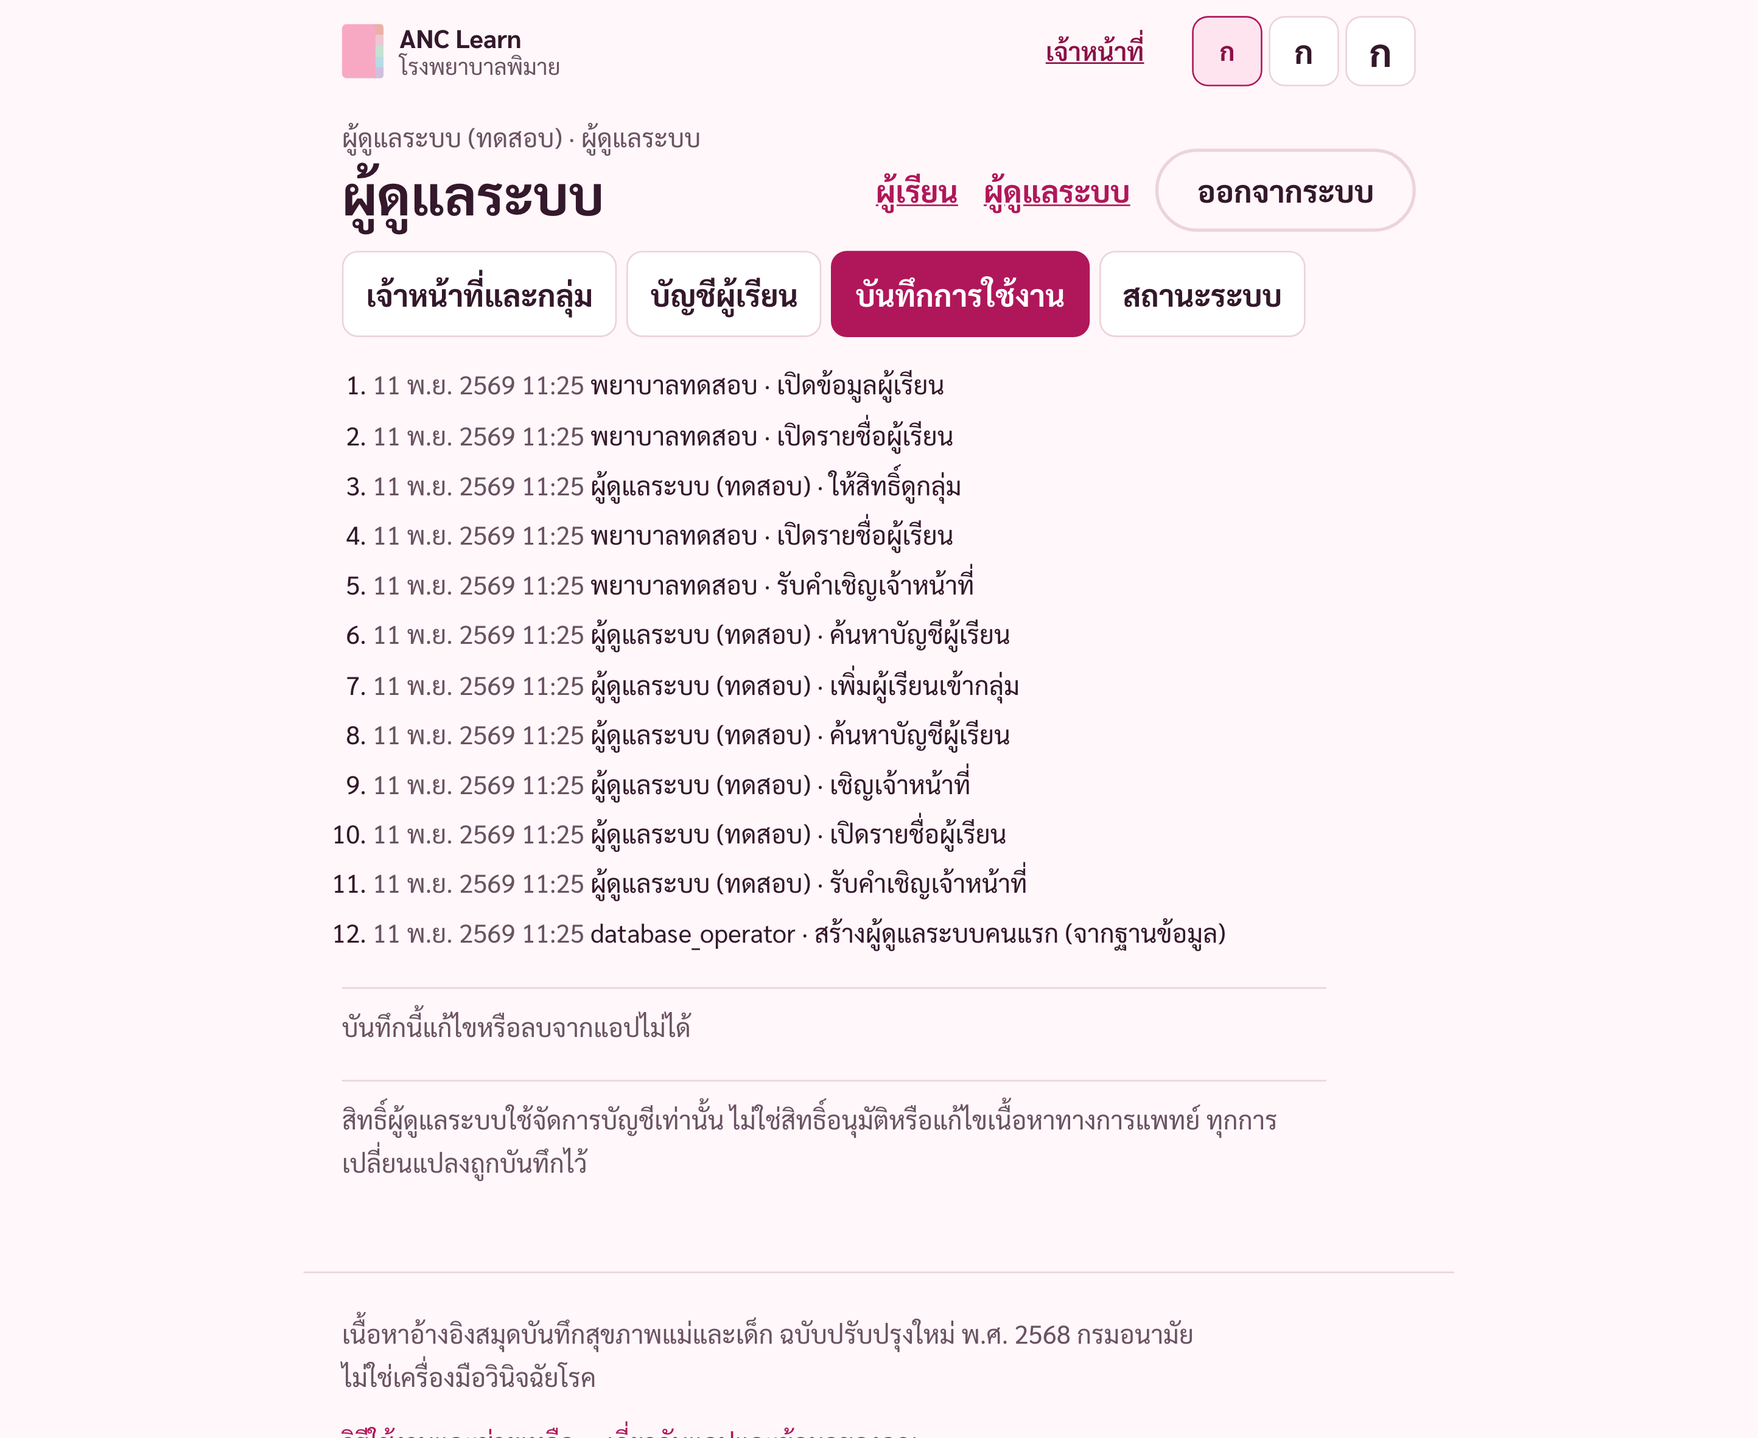
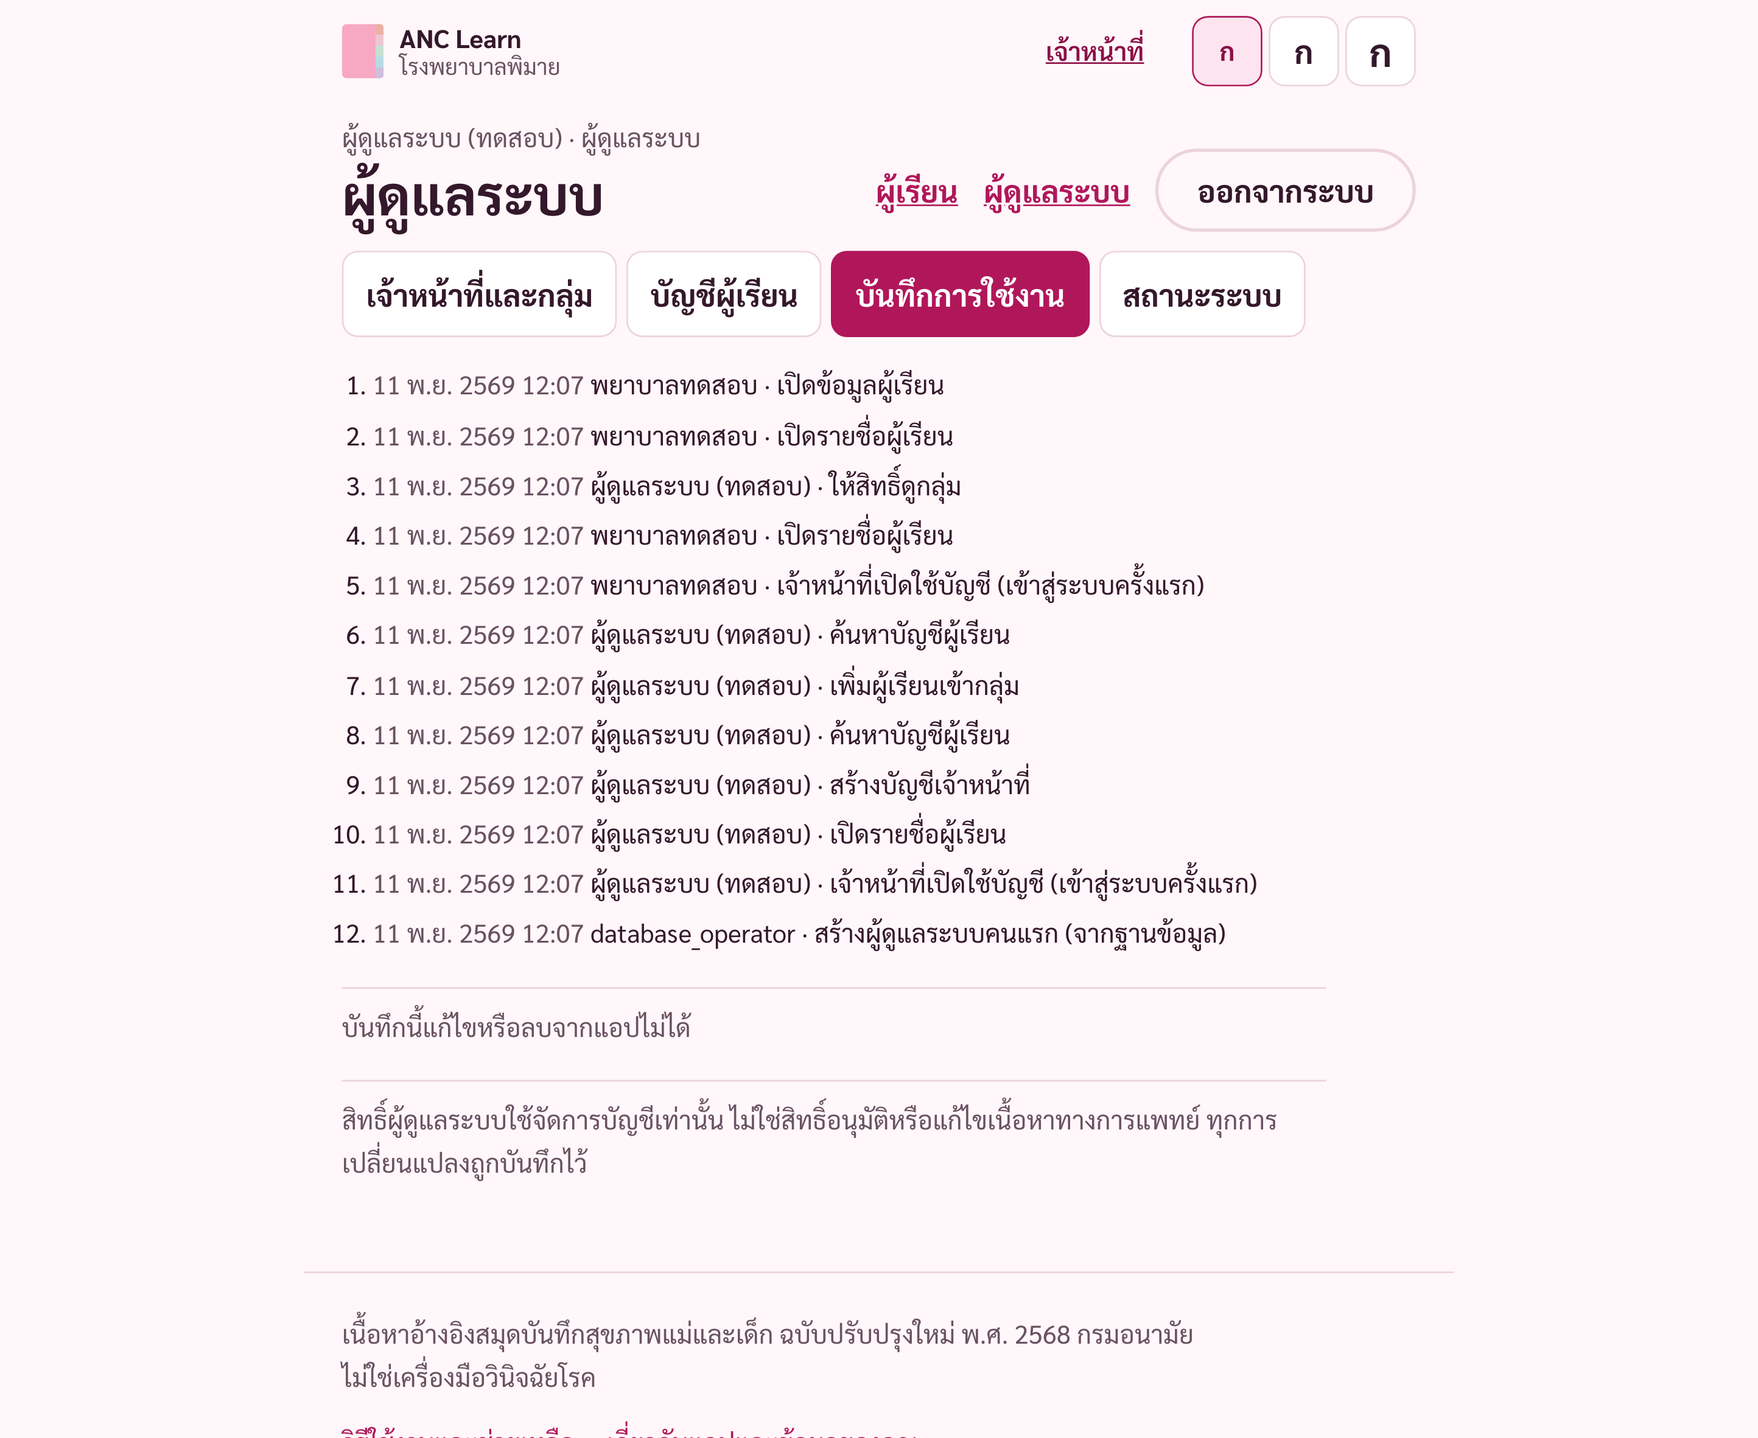
Admin: "create staff account" instead of "invite"
Admins create staff and admin accounts with a work email; the person
activates it within 7 days by signing in on the staff page and setting up
an authenticator app. Pending accounts are listed as waiting for first
sign-in. No passwords are set for anyone. Same server rules as before.

Changed region(s): [[0.4363, 0.4016, 0.6856, 0.4325], [0.4675, 0.587, 0.6856, 0.6179], [0.4675, 0.5252, 0.5921, 0.5561]]

diff --git a/app/src/pages/staff/AdminPage.tsx b/app/src/pages/staff/AdminPage.tsx
@@ -24,9 +24,9 @@ const actionLabel: Record<string, string> = {
   "staff.list_learners": "เปิดรายชื่อผู้เรียน",
   "staff.view_learner": "เปิดข้อมูลผู้เรียน",
   "staff.view_learner_denied": "พยายามเปิดผู้เรียนนอกกลุ่ม (ถูกปฏิเสธ)",
-  "staff.invitation_accepted": "รับคำเชิญเจ้าหน้าที่",
-  "admin.invite_staff": "เชิญเจ้าหน้าที่",
-  "admin.revoke_invitation": "ยกเลิกคำเชิญ",
+  "staff.invitation_accepted": "เจ้าหน้าที่เปิดใช้บัญชี (เข้าสู่ระบบครั้งแรก)",
+  "admin.invite_staff": "สร้างบัญชีเจ้าหน้าที่",
+  "admin.revoke_invitation": "ยกเลิกบัญชีที่ยังไม่เปิดใช้",
   "admin.set_staff_role": "เปลี่ยนบทบาท",
   "admin.set_staff_status": "เปิด/ปิดบัญชีเจ้าหน้าที่",
   "admin.create_cohort": "สร้างกลุ่ม",
@@ -44,7 +44,7 @@ const problemText = (e: unknown) => {
   if (m === "last_active_admin") return "ทำไม่ได้: ต้องมีผู้ดูแลระบบที่ใช้งานอยู่อย่างน้อย 1 คน";
   if (m === "email_already_has_account") return "อีเมลนี้มีบัญชีอยู่แล้ว (เช่น บัญชีผู้เรียน) ใช้อีเมลงานอีกอีเมลหนึ่ง";
   if (m === "bad_email") return "อีเมลไม่ถูกต้อง";
-  if (/duplicate key/.test(m)) return "มีคำเชิญหรือชื่อนี้อยู่แล้ว";
+  if (/duplicate key/.test(m)) return "มีบัญชีที่รอเปิดใช้สำหรับอีเมลนี้ หรือชื่อนี้อยู่แล้ว";
   return "ทำรายการไม่สำเร็จ ลองอีกครั้ง";
 };
 
@@ -109,12 +109,16 @@ function StaffAdmin() {
   return (
     <section aria-label="เจ้าหน้าที่และกลุ่ม">
       {msg && <p role="status" className="notice">{msg}</p>}
-      <h2>เชิญเจ้าหน้าที่</h2>
+      <h2>สร้างบัญชีเจ้าหน้าที่</h2>
+      <p className="auth__hint">
+        สร้างบัญชีให้เจ้าหน้าที่หรือผู้ดูแลระบบคนใหม่ด้วยอีเมลงาน เจ้าหน้าที่เปิดใช้บัญชีเองภายใน 7 วัน โดยเข้า “เข้าสู่ระบบเจ้าหน้าที่”
+        ด้วยอีเมลนั้น แล้วตั้งค่าแอปยืนยันตัวตน ไม่มีการตั้งรหัสผ่านให้ใคร
+      </p>
       <form
         className="admin__form"
         onSubmit={(e) => {
           e.preventDefault();
-          void act("admin_invite_staff", { p_email: form.email, p_display_name: form.name, p_role: form.role }, "ส่งคำเชิญแล้ว ให้เจ้าหน้าที่เข้า “เข้าสู่ระบบเจ้าหน้าที่” ด้วยอีเมลนี้ภายใน 7 วัน").then(() =>
+          void act("admin_invite_staff", { p_email: form.email, p_display_name: form.name, p_role: form.role }, "สร้างบัญชีแล้ว แจ้งเจ้าหน้าที่ให้เข้า “เข้าสู่ระบบเจ้าหน้าที่” ด้วยอีเมลนี้ภายใน 7 วัน เพื่อเปิดใช้บัญชี").then(() =>
             setForm({ email: "", name: "", role: "staff" }),
           );
         }}
@@ -128,18 +132,18 @@ function StaffAdmin() {
           <option value="staff">เจ้าหน้าที่ (ดูผู้เรียนในกลุ่มที่ได้รับมอบหมาย)</option>
           <option value="admin">ผู้ดูแลระบบ (จัดการบัญชีและสิทธิ์)</option>
         </select>
-        <button type="submit" className="btn btn--primary">เชิญ</button>
+        <button type="submit" className="btn btn--primary">สร้างบัญชี</button>
       </form>
 
       {data && data.invitations.length > 0 && (
         <>
-          <h3>คำเชิญที่ยังไม่ได้ใช้</h3>
+          <h3>บัญชีที่รอเปิดใช้ (เจ้าหน้าที่ยังไม่เคยเข้าสู่ระบบ)</h3>
           <ul className="admin__list">
             {data.invitations.map((i) => (
               <li key={i.id}>
                 {i.display_name} · {i.email} · {i.role === "admin" ? "ผู้ดูแลระบบ" : "เจ้าหน้าที่"} · หมดอายุ {formatBangkok(i.expires_at)}{" "}
-                <button type="button" className="btn btn--quiet" onClick={() => void act("admin_revoke_invitation", { p_invitation: i.id }, "ยกเลิกคำเชิญแล้ว")}>
-                  ยกเลิกคำเชิญ
+                <button type="button" className="btn btn--quiet" onClick={() => void act("admin_revoke_invitation", { p_invitation: i.id }, "ยกเลิกบัญชีแล้ว")}>
+                  ยกเลิกบัญชีนี้
                 </button>
               </li>
             ))}

diff --git a/app/src/pages/staff/StaffGate.tsx b/app/src/pages/staff/StaffGate.tsx
@@ -31,7 +31,7 @@ export function StaffGate({ admin = false, children }: { admin?: boolean; childr
           ‹ หน้าแรก
         </Link>
         <h1>เข้าสู่ระบบเจ้าหน้าที่</h1>
-        <p>สำหรับเจ้าหน้าที่โรงพยาบาลที่ได้รับคำเชิญจากผู้ดูแลระบบเท่านั้น ใช้อีเมลที่ได้รับคำเชิญ</p>
+        <p>สำหรับเจ้าหน้าที่ที่ผู้ดูแลระบบสร้างบัญชีให้แล้วเท่านั้น ใช้อีเมลงานที่ผู้ดูแลระบบใช้สร้างบัญชี</p>
         <OtpSignIn methods={["email"]} meta={{ intent: "staff" }} audience="staff" onSignedIn={() => undefined} />
       </main>
     );
@@ -39,7 +39,7 @@ export function StaffGate({ admin = false, children }: { admin?: boolean; childr
     return (
       <main className="page staff">
         <h1>บัญชีนี้ไม่ใช่บัญชีเจ้าหน้าที่</h1>
-        <p>คุณเข้าสู่ระบบด้วยบัญชีผู้เรียน ถ้าเป็นเจ้าหน้าที่ ออกจากระบบแล้วเข้าด้วยอีเมลที่ได้รับคำเชิญ</p>
+        <p>คุณเข้าสู่ระบบด้วยบัญชีผู้เรียน ถ้าเป็นเจ้าหน้าที่ ออกจากระบบแล้วเข้าด้วยอีเมลงานที่ผู้ดูแลระบบใช้สร้างบัญชีเจ้าหน้าที่</p>
         <button type="button" className="btn btn--quiet" onClick={() => void signOut({ discardPending: false }).catch(() => signOut({ discardPending: true }))}>
           ออกจากระบบ
         </button>

diff --git a/app/src/account/auth.ts b/app/src/account/auth.ts
@@ -16,7 +16,7 @@ export function explain(err: unknown): AuthProblem {
   if (/provider_disabled|Unsupported phone provider|signups not allowed/i.test(msg) || /provider_disabled/.test(e?.code ?? ""))
     return { message: "ตอนนี้ยังเข้าสู่ระบบด้วยวิธีนี้ไม่ได้ ลองอีกวิธีหนึ่ง หรือติดต่อเจ้าหน้าที่" };
   if (/Database error saving new user|no_staff_invitation/i.test(msg))
-    return { message: "ไม่พบคำเชิญเจ้าหน้าที่สำหรับอีเมลนี้ หรือคำเชิญหมดอายุแล้ว ติดต่อผู้ดูแลระบบ" };
+    return { message: "อีเมลนี้ยังไม่มีบัญชีเจ้าหน้าที่ หรือเกิน 7 วันแล้ว ให้ผู้ดูแลระบบสร้างบัญชีให้ใหม่" };
   if (/sending|sms|send/i.test(msg) && (e?.status ?? 0) >= 500)
     return { message: "ส่งรหัสไม่สำเร็จ ระบบส่งข้อความขัดข้อง ลองอีกครั้งภายหลัง หรือใช้อีกวิธีหนึ่ง" };
   if (/fetch|network|Load failed/i.test(msg))

diff --git a/app/tests-accounts/demo.spec.ts b/app/tests-accounts/demo.spec.ts
@@ -161,8 +161,8 @@ test("staff: an authorised nurse sees the learner; others cannot", async ({ brow
   await admin.goto("/admin");
   await admin.getByLabel("อีเมลงาน").fill(NURSE);
   await admin.getByLabel("ชื่อที่แสดง").fill("พยาบาลทดสอบ");
-  await admin.getByRole("button", { name: "เชิญ", exact: true }).click();
-  await expect(admin.getByText("ส่งคำเชิญแล้ว")).toBeVisible();
+  await admin.getByRole("button", { name: "สร้างบัญชี", exact: true }).click();
+  await expect(admin.getByText("สร้างบัญชีแล้ว")).toBeVisible();
   await admin.getByRole("tab", { name: "บัญชีผู้เรียน" }).click();
   const row = admin.locator(".admin__staff").filter({ hasText: "สมใจ (ทดสอบ)" });
   await row.getByLabel("คลินิกฝากครรภ์ (ข้อมูลทดสอบ)").click();

diff --git a/docs/ACCOUNTS-ADMIN-GUIDE.md b/docs/ACCOUNTS-ADMIN-GUIDE.md
@@ -5,11 +5,13 @@
 
 เข้าสู่ระบบเหมือนเจ้าหน้าที่ (docs/ACCOUNTS-STAFF-GUIDE.md ข้อ 1) แล้วแตะ **ผู้ดูแลระบบ** ด้านบน
 
-## 1. เชิญเจ้าหน้าที่
-แท็บ **เจ้าหน้าที่และกลุ่ม** → เชิญเจ้าหน้าที่: อีเมลงาน, ชื่อที่แสดง, บทบาท → **เชิญ**
-- บอกเจ้าหน้าที่ให้เข้า “เข้าสู่ระบบเจ้าหน้าที่” ด้วยอีเมลนั้นภายใน 7 วัน (ตอนนี้ระบบไม่ส่งอีเมลเชิญเอง)
-- อีเมลที่เคยสมัครเป็นผู้เรียนแล้วเชิญไม่ได้ ใช้อีเมลงานแยก
-- ยกเลิกคำเชิญได้จากรายการ “คำเชิญที่ยังไม่ได้ใช้”
+## 1. สร้างบัญชีเจ้าหน้าที่หรือผู้ดูแลระบบ
+แท็บ **เจ้าหน้าที่และกลุ่ม** → สร้างบัญชีเจ้าหน้าที่: อีเมลงาน, ชื่อที่แสดง, บทบาท (เจ้าหน้าที่ หรือ ผู้ดูแลระบบ) → **สร้างบัญชี**
+- แจ้งเจ้าหน้าที่ให้เข้า “เข้าสู่ระบบเจ้าหน้าที่” ด้วยอีเมลนั้นภายใน 7 วัน เพื่อเปิดใช้บัญชี และตั้งค่าแอปยืนยันตัวตน (ตอนนี้ระบบไม่ส่งอีเมลแจ้งเอง)
+- ไม่มีการตั้งรหัสผ่านให้ใคร ไม่มีรหัสกลางของโรงพยาบาล
+- อีเมลที่เคยสมัครเป็นผู้เรียนแล้วใช้สร้างบัญชีเจ้าหน้าที่ไม่ได้ ใช้อีเมลงานแยก
+- ยกเลิกบัญชีที่ยังไม่เปิดใช้ได้จากรายการ “บัญชีที่รอเปิดใช้”
+- บัญชีใหม่ยังไม่เห็นผู้เรียนคนใด จนกว่าจะติ๊กกลุ่มให้ (ข้อ 2)
 
 ![เจ้าหน้าที่และกลุ่ม](guides/img/admin-staff.png)
 
@@ -38,7 +40,7 @@
 ยังไม่มีปุ่มในแอปสำหรับการเปลี่ยนเบอร์/อีเมลหรือลบบัญชี (ตั้งใจให้ทำโดยผู้ดูแลฐานข้อมูลตามขั้นตอนที่อนุมัติ)
 
 ## 5. ดูบันทึกการใช้งาน
-แท็บ **บันทึกการใช้งาน**: ใครเปิดดูผู้เรียน ใครเชิญ / ให้สิทธิ์ / ถอนสิทธิ์ / ปิดบัญชี และการพยายามเปิดผู้เรียนนอกกลุ่ม (ถูกปฏิเสธ) บันทึกนี้แก้หรือลบจากแอปไม่ได้
+แท็บ **บันทึกการใช้งาน**: ใครเปิดดูผู้เรียน ใครสร้างบัญชี / ให้สิทธิ์ / ถอนสิทธิ์ / ปิดบัญชี และการพยายามเปิดผู้เรียนนอกกลุ่ม (ถูกปฏิเสธ) บันทึกนี้แก้หรือลบจากแอปไม่ได้
 
 ![บันทึกการใช้งาน](guides/img/admin-audit.png)
 

diff --git a/docs/ACCOUNTS-STAFF-GUIDE.md b/docs/ACCOUNTS-STAFF-GUIDE.md
@@ -4,13 +4,13 @@
 > ยังไม่ได้ทดสอบการใช้งานกับเจ้าหน้าที่จริง
 
 ## ก่อนเริ่ม
-- ผู้ดูแลระบบต้องส่งคำเชิญมาที่ **อีเมลงานของคุณ** ก่อน (คำเชิญใช้ได้ 7 วัน)
+- ผู้ดูแลระบบต้องสร้างบัญชีเจ้าหน้าที่ด้วย **อีเมลงานของคุณ** ก่อน แล้วคุณเปิดใช้บัญชีภายใน 7 วัน
 - ต้องมีแอปยืนยันตัวตนในมือถือ เช่น Google Authenticator หรือ Microsoft Authenticator (ฟรี)
 - ใช้อินเทอร์เน็ตทุกครั้ง หน้าเจ้าหน้าที่ไม่ทำงานแบบออฟไลน์
 
 ## 1. เข้าสู่ระบบอย่างปลอดภัย
 1. เปิดแอป → ด้านล่างของหน้า “วิธีใช้งานและช่วยเหลือ” → **สำหรับเจ้าหน้าที่โรงพยาบาล** (หรือไปที่ `/staff`)
-2. พิมพ์อีเมลงานที่ได้รับคำเชิญ → **ส่งรหัส** → เปิดอีเมล “รหัสยืนยัน ANC Learn” → พิมพ์รหัส 6 หลัก → **ยืนยันรหัส**
+2. พิมพ์อีเมลงานที่ผู้ดูแลระบบใช้สร้างบัญชี → **ส่งรหัส** → เปิดอีเมล “รหัสยืนยัน ANC Learn” → พิมพ์รหัส 6 หลัก → **ยืนยันรหัส**
 3. ครั้งแรก: สแกน QR ด้วยแอปยืนยันตัวตน แล้วพิมพ์รหัส 6 หลักจากแอป ครั้งต่อไป: พิมพ์รหัสจากแอปอย่างเดียว
 
 ![ยืนยันตัวตนขั้นที่ 2](guides/img/staff-second-factor.png)
